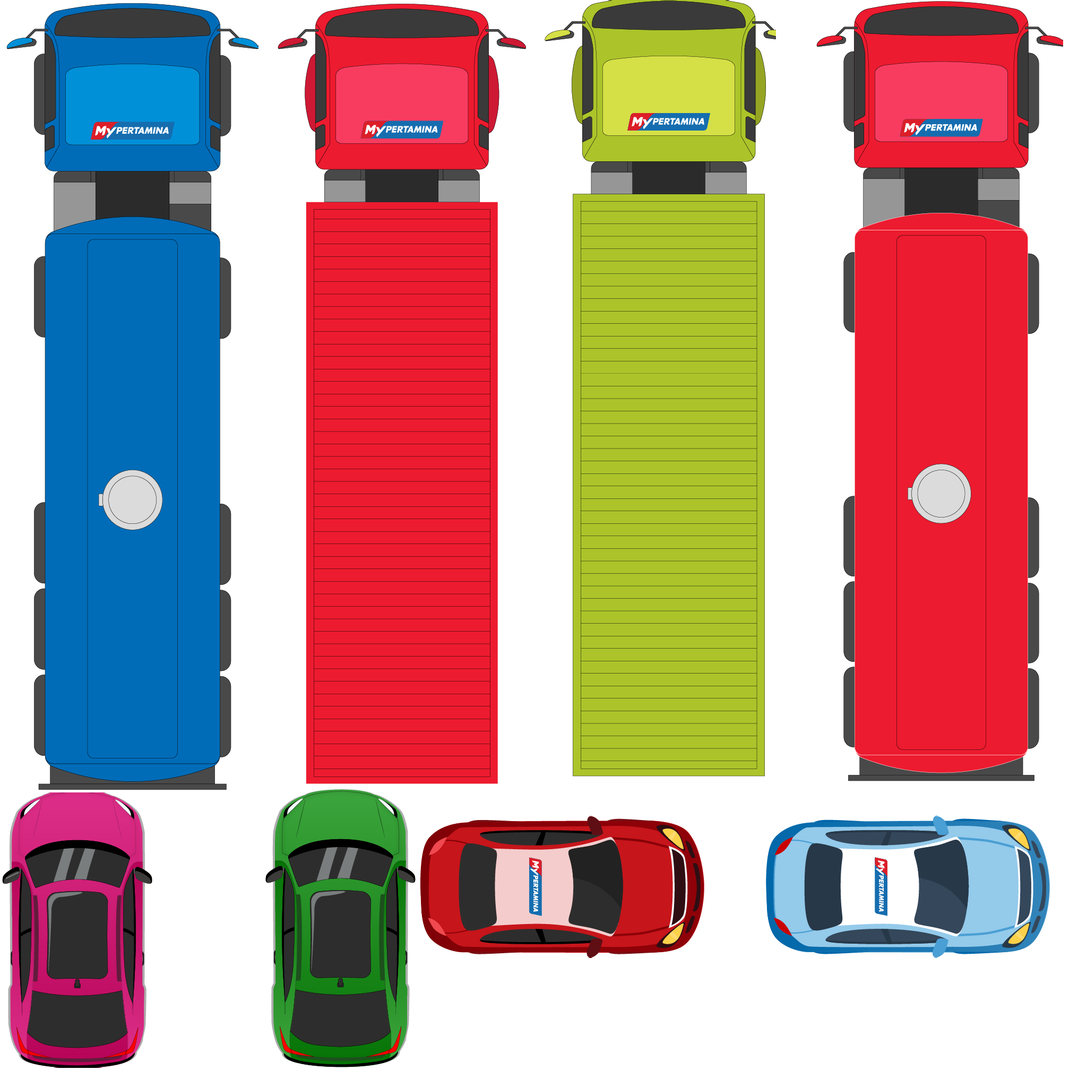
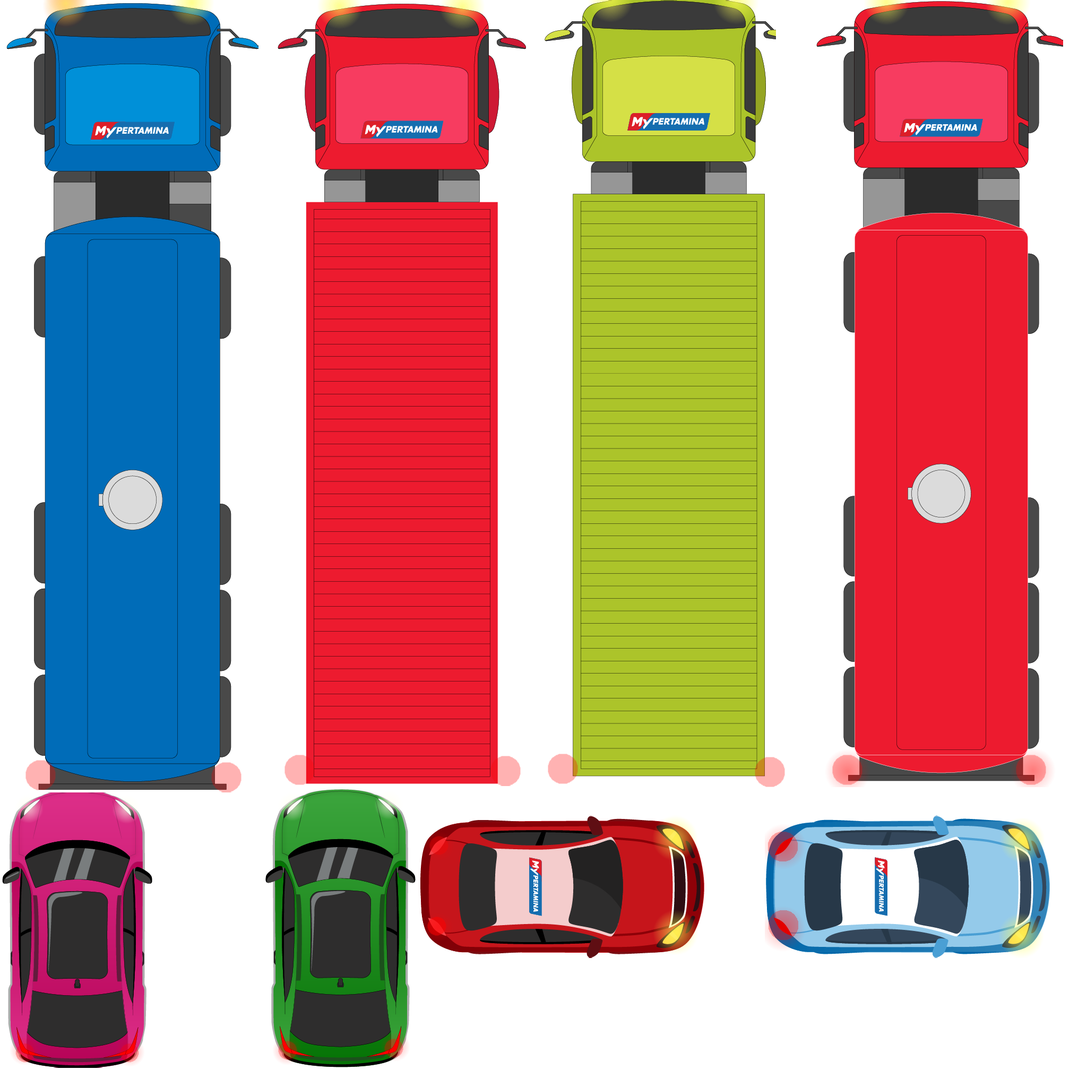
commit added effect, version stable 171025

diff --git a/scripts/c3runtime.js b/scripts/c3runtime.js
@@ -1239,6 +1239,21 @@ const C3=self.C3,GESTURE_HOLD_THRESHOLD=15,GESTURE_HOLD_TIMEOUT=500,GESTURE_TAP_
 {const t=self.C3;t.Plugins.Json=class extends t.SDKPluginBase{constructor(t){super(t)}Release(){super.Release()}}}{const t=self.C3;t.Plugins.Json.Type=class extends t.SDKTypeBase{constructor(t){super(t)}Release(){super.Release()}OnCreate(){}}}{const t=self.C3,e=self.C3X,a=self.IInstance;t.Plugins.Json.Instance=class extends t.SDKInstanceBase{constructor(t,e){super(t),this._valueCache=[null,null],this._locationCache=[null,null],this._data={},this._path=[],this._currentKey="",this._currentValue=0}Release(){super.Release()}_InvalidateValueCache(){this._valueCache[0]=null,this._valueCache[1]=null}_HasValueCache(e,a){const s=this._valueCache[0];if(null===e||null===s)return!1;if(s===e||t.arraysEqual(s,e))return!0;if(a&&s.length>0){for(let t=0,a=Math.min(e.length,s.length);t<a;++t)if(e[t]!==s[t])return!1;return!0}return!1}_GetValueCache(){return this._valueCache[1]}_UpdateValueCache(t,e){this._valueCache[0]=t,this._valueCache[1]=e}_InvalidateLocationCache(){this._locationCache[0]=null,this._locationCache[1]=null}_HasLocationCache(t){return this._locationCache[0]===t}_GetLocationCache(){return this._locationCache[1]}_UpdateLocationCache(t,e){this._locationCache[0]=t,this._locationCache[1]=e}_SetData(t){this._data=t,this._InvalidateValueCache(),this._SetPath("")}_GetData(){return this._data}_SetPath(t){this._path=this._ParsePathUnsafe(t),this._InvalidateLocationCache()}_ParsePath(e){return t.cloneArray(this._ParsePathUnsafe(e))}_ParsePathUnsafe(e){const a=[];let s,r=!1;if(this._HasLocationCache(e))return this._GetLocationCache();"."===e[0]?(s=t.cloneArray(this._path),e=e.slice(1)):s=[];for(const n of e)r?(a.push(n),r=!1):"\\"===n?r=!0:"."===n?(s.push(a.join("")),t.clearArray(a)):a.push(n);return 0!==a.length&&s.push(a.join("")),this._UpdateLocationCache(e,s),s}_GetValueAtFullPath(t,e){if(this._HasValueCache(t,!1))return this._GetValueCache();let a=this._data;for(const s of t)if(Array.isArray(a)){const t=parseInt(s,10);if(t<0||t>=a.length||!isFinite(t)){a=null;break}a=a[t]}else{if("object"!=typeof a||null===a){a=null;break}if(a.hasOwnProperty(s))a=a[s];else{if(!e){a=null;break}{const t={};a[s]=t,a=t}}}return this._UpdateValueCache(t,a),a}_GetValue(t){const e=this._ParsePath(t);if(!e.length)return this._data;const a=e.pop(),s=this._GetValueAtFullPath(e,!1);if(Array.isArray(s)){const t=parseInt(a,10);return t>=0&&t<s.length?s[t]:null}return"object"==typeof s&&null!==s&&s.hasOwnProperty(a)?s[a]:null}_JSONTypeOf(t){return null===t?"null":Array.isArray(t)?"array":typeof t}_GetTypeOf(t){const e=this._GetValue(t);return this._JSONTypeOf(e)}_ToSafeValue(t){const e=typeof t;return"number"===e||"string"===e?t:"boolean"===e&&t?1:0}_GetSafeValue(t){return this._ToSafeValue(this._GetValue(t))}_HasKey(t){const e=this._ParsePath(t);if(!e.length)return!1;const a=e.pop(),s=this._GetValueAtFullPath(e,!1);if(Array.isArray(s)){const t=parseInt(a,10);return t>=0&&t<s.length}return"object"==typeof s&&null!==s&&s.hasOwnProperty(a)}_SetValue(t,e){const a=this._ParsePath(t);if(!a.length)return!1;this._HasValueCache(a,!0)&&this._InvalidateValueCache();const s=a.pop(),r=this._GetValueAtFullPath(a,!0);if(Array.isArray(r)){const t=parseInt(s,10);return!(!isFinite(t)||t<0||t>=r.length)&&(r[t]=e,!0)}return"object"==typeof r&&null!==r&&(r[s]=e,!0)}_DeleteKey(t){const e=this._ParsePath(t);if(!e.length)return!1;this._HasValueCache(e,!0)&&this._InvalidateValueCache();const a=e.pop(),s=this._GetValueAtFullPath(e,!1);return!Array.isArray(s)&&("object"==typeof s&&null!==s&&(delete s[a],!0))}SaveToJson(){return{"path":this._path,"data":this._data}}LoadFromJson(t){this._InvalidateValueCache(),this._InvalidateLocationCache(),this._path=t["path"],this._data=t["data"]}_SanitizeValue(t){return"number"===typeof t?isFinite(t)?t:0:"object"==typeof t?JSON.stringify(t):t+""}GetDebuggerProperties(){const t="plugins.json.debugger";let e;try{e=this._SanitizeValue(this._data)}catch(t){e='"invalid"'}return[{title:t+".title",properties:[{name:t+".data",value:e,onedit:t=>{try{const e=JSON.parse(t);this._SetData(e)}catch(t){}}},{name:t+".path",value:this._path.map(t=>t.replace(/\./g,"\\.")).join(".")}]}]}GetScriptInterfaceClass(){return self.IJSONInstance}};const s=new WeakMap;self.IJSONInstance=class extends a{constructor(){super(),s.set(this,a._GetInitInst().GetSdkInstance())}getJsonDataCopy(){const t=s.get(this)._GetData();return JSON.parse(JSON.stringify(t))}setJsonDataCopy(t){try{const e=JSON.parse(JSON.stringify(t));s.get(this)._SetData(e)}catch(t){throw console.error("[JSON plugin] setJsonData: object is not valid JSON: ",t),t}}setJsonString(t){e.RequireString(t);try{const e=JSON.parse(t);s.get(this)._SetData(e)}catch(t){throw console.error("[JSON plugin] setJsonString: string is not valid JSON: ",t),t}}toCompactString(){return JSON.stringify(s.get(this)._GetData())}toBeautifiedString(){return JSON.stringify(s.get(this)._GetData(),null,4)}}}{const t=self.C3,e=["null","boolean","number","string","object","array"];t.Plugins.Json.Cnds={HasKey(t){return this._HasKey(t)},CompareType(t,a){return this._GetTypeOf(t)===e[a]},CompareValue(e,a,s){return t.compare(this._GetSafeValue(e),a,s)},IsBooleanSet(t){return!0===this._GetValue(t)},ForEach(e){const a=this._GetValue(e);if("object"!=typeof a||null===a)return!1;const s=this._runtime,r=s.GetEventSheetManager(),n=s.GetCurrentEvent(),i=n.GetSolModifiers(),l=s.GetEventStack(),u=l.GetCurrentStackFrame(),h=l.Push(n),o=this._path,c=this._currentKey,_=this._currentValue,p=this._ParsePathUnsafe(e);s.SetDebuggingEnabled(!1);for(const[e,s]of Object.entries(a)){this._path=t.cloneArray(p),this._path.push(e),this._currentKey=e,this._currentValue=s,r.PushCopySol(i);this.GetObjectClass().GetCurrentSol().PickOne(this.GetInstance()),n.Retrigger(u,h),r.PopSol(i)}return s.SetDebuggingEnabled(!0),this._path=o,this._InvalidateLocationCache(),this._currentKey=c,this._currentValue=_,l.Pop(),!1},OnParseError:()=>!0,OnParseSuccess:()=>!0}}{const t=self.C3;t.Plugins.Json.Acts={Parse(e){try{this._SetData(JSON.parse(e)),this.Trigger(t.Plugins.Json.Cnds.OnParseSuccess)}catch(e){console.warn("[JSON plugin] Failed to parse JSON data: ",e),this._SetData({}),this.Trigger(t.Plugins.Json.Cnds.OnParseError)}},SetPath(t){this._SetPath(t)},SetValue(t,e){this._SetValue(t,e)},SetArray(e,a){let s=this._GetValue(e);Array.isArray(s)?t.resizeArray(s,a,0):(s=[],t.extendArray(s,a,0),this._SetValue(e,s))},SetObject(t){this._SetValue(t,{})},SetJSON(e,a){let s=null;try{s=JSON.parse(a),this.Trigger(t.Plugins.Json.Cnds.OnParseSuccess)}catch(e){console.warn("[JSON plugin] Failed to parse JSON data: ",e),this.Trigger(t.Plugins.Json.Cnds.OnParseError)}this._SetValue(e,s)},SetNull(t){this._SetValue(t,null)},SetBoolean(t,e){this._SetValue(t,0!==e)},ToggleBoolean(t){const e=this._GetValue(t);"boolean"==typeof e&&this._SetValue(t,!e)},AddTo(t,e){const a=this._GetValue(t);"number"==typeof a&&this._SetValue(t,a+e)},SubtractFrom(t,e){const a=this._GetValue(t);"number"==typeof a&&this._SetValue(t,a-e)},DeleteKey(t){this._DeleteKey(t)},PushValue(t,e,a){const s=this._GetValue(e);Array.isArray(s)&&(0===t?s.push(a):s.unshift(a),this._InvalidateValueCache())},PopValue(t,e){const a=this._GetValue(e);Array.isArray(a)&&(0===t?a.pop():a.shift(),this._InvalidateValueCache())},InsertValue(t,e,a){const s=this._GetValue(e);Array.isArray(s)&&(s.splice(a,0,t),this._InvalidateValueCache())},RemoveValues(t,e,a){const s=this._GetValue(e);Array.isArray(s)&&t>0&&(s.splice(a,t),this._InvalidateValueCache())}}}self.C3.Plugins.Json.Exps={ToCompactString(){try{return JSON.stringify(this._data)}catch(t){return""}},ToBeautifiedString(){try{return JSON.stringify(this._data,null,4)}catch(t){return""}},Get(t){return this._GetSafeValue(t)},GetAsCompactString(t){const e=this._GetValue(t);return JSON.stringify(e)},GetAsBeautifiedString(t){const e=this._GetValue(t);return JSON.stringify(e,null,4)},Front(t){const e=this._GetValue(t);if(Array.isArray(e)){const t=e[0];return this._ToSafeValue(t)}return-1},Back(t){const e=this._GetValue(t);if(Array.isArray(e)){const t=e.at(-1);return this._ToSafeValue(t)}return-1},Type(t){return this._GetTypeOf(t)},ArraySize(t){const e=this._GetValue(t);return Array.isArray(e)?e.length:-1},Path(){return this._path.map(t=>t.replace(/\./g,"\\.")).join(".")},CurrentKey(){return this._currentKey},CurrentValue(){return this._ToSafeValue(this._currentValue)},CurrentType(){return this._JSONTypeOf(this._currentValue)}};
 }
 
+// scripts/plugins/Particles/c3runtime/runtime.js
+{
+{const e=self.C3;e.Plugins.Particles=class extends e.SDKPluginBase{constructor(e){super(e)}Release(){super.Release()}}}{const t=self.C3;t.Plugins.Particles.Type=class extends t.SDKTypeBase{constructor(e){super(e)}Release(){super.Release()}OnCreate(){this.GetImageInfo().LoadAsset(this._runtime)}LoadTextures(e){return this.GetImageInfo().LoadStaticTexture(e,{sampling:this._runtime.GetSampling()})}ReleaseTextures(){this.GetImageInfo().ReleaseTexture()}}}{const i=self.C3,n=self.C3X,a=0,r=1,s=2,o=3,c=4,l=5,S=6,d=7,p=8,G=9,m=10,u=11,h=12,g=13,R=14,I=15,y=16,_=17,E=18,P=19,f=20,b=0,C=1,O=i.New(i.Rect);i.Plugins.Particles.Instance=class extends i.SDKWorldInstanceBase{constructor(e,t){super(e),this._isFirstTick=!0;const n=i.New(self.ParticleEngine);this._particleEngine=n,n.ononeshotfinish=()=>this._OnOneShotFinish(),this._spawnObjectClass=null,this._particleUpdateCallback=(e,t,i,n,a,r)=>this._OnParticleUpdate(e,t,i,n,a,r),this._particleDestroyCallback=e=>this._OnParticleDestroy(e),this._hasAnyDefaultParticle=!0;let b=!0;t&&(n.SetRate(t[a]),n.SetSprayCone(i.toRadians(t[r])),n.SetSprayType(t[s]?"one-shot":"continuous-spray"),this._SetParticleObjectClass(this._runtime.GetObjectClassBySID(t[o])),b=t[c],n.SetInitSpeed(t[l]),n.SetInitSize(t[S]),n.SetInitOpacity(t[d]/100),n.SetGrowRate(t[p]),n.SetInitXRandom(t[G]),n.SetInitYRandom(t[m]),n.SetInitSpeedRandom(t[u]),n.SetInitSizeRandom(t[h]),n.SetGrowRandom(t[g]),n.SetAcceleration(t[R]),n.SetGravity(t[I]),n.SetLifeAngleRandom(t[y]),n.SetLifeSpeedRandom(t[_]),n.SetLifeOpacityRandom(t[E]),n.SetDestroyModeIndex(t[P]),n.SetTimeout(t[f])),this._UpdateEngineParameters(),this._spawnObjectClass&&(this._hasAnyDefaultParticle=!1),"one-shot"===n.GetSprayType()?n.CreateOneShotSpray():n.SetSpraying(!0);const C=this.GetWorldInfo();C.SetVisible(b),C.SetBboxChangeEventEnabled(!0),this._inst.Dispatcher().addEventListener("bboxchange",()=>{C.OverwriteBoundingBox(this._particleEngine.GetBoundingBox())}),this.GetRuntime().GetRenderer().IsWebGPU()&&C.SetUsePointsShaderProgram(),this._afterLoad=e=>this._OnAfterLoad(e),this.GetRuntime().Dispatcher().addEventListener("afterload",this._afterLoad),this._StartTicking()}Release(){this.GetRuntime().Dispatcher().removeEventListener("afterload",this._afterLoad),this._afterLoad=null,this._particleEngine.Release(),this._particleEngine=null,this._particleUpdateCallback=null,this._particleDestroyCallback=null,super.Release()}GetParticleEngine(){return this._particleEngine}_SetRate(e){this._particleEngine.SetRate(e),"one-shot"===this._particleEngine.GetSprayType()&&this._isFirstTick&&this._particleEngine.SetParticleCount(e)}_SetParticleObjectClass(e){e===this.GetObjectClass()&&(e=null),e!==this._spawnObjectClass&&(this._spawnObjectClass=e,this._particleEngine.onparticlecreate=e?e=>this._OnParticleCreate(e):null,this._spawnObjectClass||(this._hasAnyDefaultParticle=!0))}_UpdateEngineParameters(){const e=this._particleEngine,t=this.GetWorldInfo();e.SetMasterOpacity(t.GetOpacity()),e.SetPixelRounding(this._runtime.IsPixelRoundingEnabled()),e.SetSpawnX(t.GetX()),e.SetSpawnY(t.GetY()),e.SetSpawnAngle(t.GetAngle()),e.SetInitSizeScale(Math.abs(t.GetSceneGraphScale()))}_OnOneShotFinish(){this._runtime.DestroyInstance(this._inst)}Draw(e){if(!this._hasAnyDefaultParticle)return;const t=this._objectClass.GetImageInfo(),i=t.GetTexture();if(!i)return;const n=this.GetWorldInfo(),a=n.GetLayer(),r=O;this._runtime.GetCanvasManager().IsPastingToDrawingCanvas()?r.set(-1/0,-1/0,1/0,1/0):a.Has3DCamera()?a.CalculateViewport3D(n.GetTotalZElevation(),r):a.GetViewportForZ(n.GetTotalZElevation(),r),e.SetTexture(i);const s=a.Get2DScaleFactorToZ(n.GetTotalZElevation());this._particleEngine.SetParticleScale(a.GetRenderScale()*s),this._particleEngine.Draw(e,t.GetTexQuad(),r,a.Has3DCamera())}SaveToJson(){const e=this._particleEngine;return{"r":e.GetRate(),"sc":e.GetSprayCone(),"st":e.GetSprayType(),"isp":e.GetInitSpeed(),"isz":e.GetInitSize(),"io":e.GetInitOpacity(),"gr":e.GetGrowRate(),"xr":e.GetInitXRandom(),"yr":e.GetInitYRandom(),"spr":e.GetInitSpeedRandom(),"szr":e.GetInitSizeRandom(),"grnd":e.GetGrowRandom(),"acc":e.GetAcceleration(),"g":e.GetGravity(),"lar":e.GetLifeAngleRandom(),"lsr":e.GetLifeSpeedRandom(),"lor":e.GetLifeOpacityRandom(),"dm":e.GetDestroyModeIndex(),"to":e.GetTimeout(),"s":e.IsSpraying(),"pcc":e._GetCreateCounter(),"ft":this._isFirstTick,"soc":this._spawnObjectClass?this._spawnObjectClass.GetSID():null,"p":e.GetParticles().map(e=>e.toJSON())}}LoadFromJson(e,t){const i=this._particleEngine;if(i.SetRate(e["r"]),i.SetSprayCone(e["sc"]),i.SetSprayType(e["st"]),i.SetInitSpeed(e["isp"]),i.SetInitSize(e["isz"]),i.SetInitOpacity(e["io"]),i.SetGrowRate(e["gr"]),i.SetInitXRandom(e["xr"]),i.SetInitYRandom(e["yr"]),i.SetInitSpeedRandom(e["spr"]),i.SetInitSizeRandom(e["szr"]),i.SetGrowRandom(e["grnd"]),i.SetAcceleration(e["acc"]),i.SetGravity(e["g"]),i.SetLifeAngleRandom(e["lar"]),i.SetLifeSpeedRandom(e["lsr"]),i.SetLifeOpacityRandom(e["lor"]),i.SetDestroyModeIndex(e["dm"]),i.SetTimeout(e["to"]),i.SetSpraying(e["s"]),i._SetCreateCounter(e["pcc"]),this._isFirstTick=e["ft"],e.hasOwnProperty("soc")){const t=this.GetRuntime().GetObjectClassBySID(e["soc"]);t&&this._SetParticleObjectClass(t)}const n=e["p"];i.SetParticleCount(n.length,!1);const a=i.GetParticles();for(let e=0,t=a.length;e<t;++e)a[e].setFromJSON(n[e]);"state"===t&&this._spawnObjectClass&&(i.UpdateAllParticlesUserData(),i.ApplyParticleDataToUserData(this))}_OnAfterLoad(){const e=this._particleEngine;e.UpdateAllParticlesUserData(),e.ApplyParticleDataToUserData(this);const t=e.GetParticles();for(let e=0,i=t.length;e<i;++e){const i=t[e],n=i.GetUserData();if(!n)continue;const a=n.GetWorldInfo();if(!a)continue;const r=a.GetInstance();if(!r)continue;const s=i.GetUserDataUID(),o=r.GetUID();if(("number"!=typeof s||"number"!=typeof o||s!==o)&&"number"==typeof s){const e=this.GetRuntime(),t=e.GetInstanceByUID(s);t&&e.DestroyInstance(t)}}}Tick(){const e=this._runtime.GetDt(this._inst);this._UpdateEngineParameters(),this._isFirstTick&&"one-shot"===this._particleEngine.GetSprayType()&&this._particleEngine.ReInitAllParticles(),this._particleEngine.Tick(e),this._particleEngine.IsSpraying()&&this._runtime.UpdateRender(),this.GetWorldInfo().SetBboxChanged(),this._isFirstTick=!1}_FastForward(e){const t=1/60;for(this._isFirstTick&&"one-shot"===this._particleEngine.GetSprayType()&&this._particleEngine.ReInitAllParticles();e>0;)this._particleEngine.Tick(t),e-=t;this._particleEngine.IsSpraying()&&this._runtime.UpdateRender(),this.GetWorldInfo().SetBboxChanged(),this._isFirstTick=!1}_OnParticleCreate(e,t){let i;"number"==typeof t&&(i=this._runtime.GetInstanceByUID(t)),i&&i.GetObjectClass()!==this._spawnObjectClass&&(i=null),i||(i=this._runtime.CreateInstance(this._spawnObjectClass,this.GetWorldInfo().GetLayer(),e.GetX(),e.GetY()));const n=i.GetWorldInfo();return n.SetSize(e.GetSize(),e.GetSize()),n.SetAngle(e.GetAngle()),n.SetOpacity(e.GetOpacity()),n.SetUnpremultipliedColor(this.GetWorldInfo().GetUnpremultipliedColor()),n.SetBboxChanged(),n.ZOrderMoveAdjacentToInstance(this.GetInstance(),!0),i._TriggerOnCreated(),e.SetUpdateCallback(this._particleUpdateCallback),e.SetDestroyCallback(this._particleDestroyCallback),i}_OnParticleUpdate(e,t,i,n,a,r){if(e.IsDestroyed())return;const s=e.GetWorldInfo();s.OffsetXY(t,i),s.SetSize(s.GetWidth()+n,s.GetHeight()+n),s.SetAngle(s.GetAngle()+a),s.SetOpacity(s.GetOpacity()+r),s.SetBboxChanged()}_OnParticleDestroy(e){e.IsDestroyed()||this._runtime.DestroyInstance(e)}GetPropertyValueByIndex(e){const t=this._particleEngine;switch(e){case a:return t.GetRate();case r:return i.toDegrees(t.GetSprayCone());case s:return"one-shot"===t.GetSprayType()?C:b;case l:return t.GetInitSpeed();case S:return t.GetInitSize();case d:return 100*t.GetInitOpacity();case p:return t.GetGrowRate();case G:return t.GetInitXRandom();case m:return t.GetInitYRandom();case u:return t.GetInitSpeedRandom();case h:return t.GetInitSizeRandom();case g:return t.GetGrowRandom();case R:return t.GetAcceleration();case I:return t.GetGravity();case y:return t.GetLifeAngleRandom();case _:return t.GetLifeSpeedRandom();case E:return t.GetLifeOpacityRandom();case P:return t.GetDestroyModeIndex();case f:return t.GetTimeout()}}SetPropertyValueByIndex(e,t){const n=this._particleEngine;switch(e){case a:n.SetRate(t);break;case r:n.SetSprayCone(i.toRadians(t));break;case s:n.SetSprayType(t?"one-shot":"continuous-spray");break;case l:n.SetInitSpeed(t);break;case S:n.SetInitSize(t);break;case d:n.SetInitOpacity(t/100);break;case p:n.SetGrowRate(t);break;case G:n.SetInitXRandom(t);break;case m:n.SetInitYRandom(t);break;case u:n.SetInitSpeedRandom(t);break;case h:n.SetInitSizeRandom(t);break;case g:n.SetGrowRandom(t);break;case R:n.SetAcceleration(t);break;case I:n.SetGravity(t);break;case y:n.SetLifeAngleRandom(t);break;case _:n.SetLifeSpeedRandom(t);break;case E:n.SetLifeOpacityRandom(t);break;case P:n.SetDestroyModeIndex(t);break;case f:n.SetTimeout(t)}}GetDebuggerProperties(){const e="plugins.particles",t=e+".properties",n=e+".debugger",a=this._particleEngine;return[{title:e+".name",properties:[{name:n+".particle-count",value:a.GetParticleCount()},{name:t+".type.name",value:[t+".type.items."+a.GetSprayType()]},{name:n+".is-spraying",value:a.IsSpraying(),onedit:e=>a.SetSpraying(e)},{name:t+".rate.name",value:a.GetRate(),onedit:e=>a.SetRate(e)},{name:t+".spray-cone.name",value:i.toDegrees(a.GetSprayCone()),onedit:e=>a.SetSprayCone(i.toRadians(e))},{name:t+".speed.name",value:a.GetInitSpeed(),onedit:e=>a.SetInitSpeed(e)},{name:t+".size.name",value:a.GetInitSize(),onedit:e=>a.SetInitSize(e)},{name:t+".opacity.name",value:a.GetInitOpacity(),onedit:e=>a.SetInitOpacity(e)},{name:t+".grow-rate.name",value:a.GetGrowRate(),onedit:e=>a.SetGrowRate(e)},{name:t+".x-randomiser.name",value:a.GetInitXRandom(),onedit:e=>a.SetInitXRandom(e)},{name:t+".y-randomiser.name",value:a.GetInitYRandom(),onedit:e=>a.SetInitYRandom(e)},{name:t+".initial-speed-randomiser.name",value:a.GetInitSpeedRandom(),onedit:e=>a.SetInitSpeedRandom(e)},{name:t+".size-randomiser.name",value:a.GetInitSizeRandom(),onedit:e=>a.SetInitSizeRandom(e)},{name:t+".grow-rate-randomiser.name",value:a.GetGrowRandom(),onedit:e=>a.SetGrowRandom(e)},{name:t+".acceleration.name",value:a.GetAcceleration(),onedit:e=>a.SetAcceleration(e)},{name:t+".gravity.name",value:a.GetGravity(),onedit:e=>a.SetGravity(e)},{name:t+".angle-randomiser.name",value:a.GetLifeAngleRandom(),onedit:e=>a.SetLifeAngleRandom(e)},{name:t+".life-speed-randomiser.name",value:a.GetLifeSpeedRandom(),onedit:e=>a.SetLifeSpeedRandom(e)},{name:t+".opacity-randomiser.name",value:a.GetLifeOpacityRandom(),onedit:e=>a.SetLifeOpacityRandom(e)},{name:t+".timeout.name",value:a.GetTimeout(),onedit:e=>a.SetTimeout(e)}]}]}GetScriptInterfaceClass(){return self.IParticlesInstance}};const w=new WeakMap;function GetParticleEngine(e){return w.get(e).GetParticleEngine()}self.IParticlesInstance=class extends self.IWorldInstance{constructor(){super(),w.set(this,self.IInstance._GetInitInst().GetSdkInstance())}set isSpraying(e){GetParticleEngine(this).SetSpraying(!!e)}get isSpraying(){return GetParticleEngine(this).IsSpraying()}set rate(e){n.RequireFiniteNumber(e),w.get(this)._SetRate(e)}get rate(){return GetParticleEngine(this).GetRate()}set sprayCone(e){n.RequireFiniteNumber(e),GetParticleEngine(this).SetSprayCone(e)}get sprayCone(){return GetParticleEngine(this).GetSprayCone()}set initSpeed(e){n.RequireFiniteNumber(e),GetParticleEngine(this).SetInitSpeed(e)}get initSpeed(){return GetParticleEngine(this).GetInitSpeed()}set initSize(e){n.RequireFiniteNumber(e),GetParticleEngine(this).SetInitSize(e)}get initSize(){return GetParticleEngine(this).GetInitSize()}set initOpacity(e){n.RequireFiniteNumber(e),GetParticleEngine(this).SetInitOpacity(e)}get initOpacity(){return GetParticleEngine(this).GetInitOpacity()}set initXRandom(e){n.RequireFiniteNumber(e),GetParticleEngine(this).SetInitXRandom(e)}get initXRandom(){return GetParticleEngine(this).GetInitXRandom()}set initYRandom(e){n.RequireFiniteNumber(e),GetParticleEngine(this).SetInitYRandom(e)}get initYRandom(){return GetParticleEngine(this).GetInitYRandom()}set initSpeedRandom(e){n.RequireFiniteNumber(e),GetParticleEngine(this).SetInitSpeedRandom(e)}get initSpeedRandom(){return GetParticleEngine(this).GetInitSpeedRandom()}set initSizeRandom(e){n.RequireFiniteNumber(e),GetParticleEngine(this).SetInitSizeRandom(e)}get initSizeRandom(){return GetParticleEngine(this).GetInitSizeRandom()}set initGrowRate(e){n.RequireFiniteNumber(e),GetParticleEngine(this).SetGrowRate(e)}get initGrowRate(){return GetParticleEngine(this).GetGrowRate()}set initGrowRandom(e){n.RequireFiniteNumber(e),GetParticleEngine(this).SetGrowRandom(e)}get initGrowRandom(){return GetParticleEngine(this).GetGrowRandom()}set acceleration(e){n.RequireFiniteNumber(e),GetParticleEngine(this).SetAcceleration(e)}get acceleration(){return GetParticleEngine(this).GetAcceleration()}set gravity(e){n.RequireFiniteNumber(e),GetParticleEngine(this).SetGravity(e)}get gravity(){return GetParticleEngine(this).GetGravity()}set lifeAngleRandom(e){n.RequireFiniteNumber(e),GetParticleEngine(this).SetLifeAngleRandom(e)}get lifeAngleRandom(){return GetParticleEngine(this).GetLifeAngleRandom()}set lifeSpeedRandom(e){n.RequireFiniteNumber(e),GetParticleEngine(this).SetLifeSpeedRandom(e)}get lifeSpeedRandom(){return GetParticleEngine(this).GetLifeSpeedRandom()}set lifeOpacityRandom(e){n.RequireFiniteNumber(e),GetParticleEngine(this).SetLifeOpacityRandom(e)}get lifeOpacityRandom(){return GetParticleEngine(this).GetLifeOpacityRandom()}set timeout(e){n.RequireFiniteNumber(e),GetParticleEngine(this).SetTimeout(e)}get timeout(){return GetParticleEngine(this).GetTimeout()}fastForward(e){n.RequireFiniteNumber(e),w.get(this)._FastForward(e)}setParticleObjectClass(e){const t=w.get(this);e?t._SetParticleObjectClass(t.GetRuntime()._UnwrapIObjectClass(e)):t._SetParticleObjectClass(null)}}}self.C3.Plugins.Particles.Cnds={IsSpraying(){return this._particleEngine.IsSpraying()}};{const T=self.C3;T.Plugins.Particles.Acts={SetSpraying(e){this._particleEngine.SetSpraying(0!==e)},SetRate(e){this._SetRate(e)},SetParticleObject(e){this._SetParticleObjectClass(e)},UnsetParticleObject(){this._SetParticleObjectClass(null)},SetSprayCone(e){this._particleEngine.SetSprayCone(T.toRadians(e))},SetInitSpeed(e){this._particleEngine.SetInitSpeed(e)},SetInitSize(e){this._particleEngine.SetInitSize(e)},SetInitOpacity(e){this._particleEngine.SetInitOpacity(e/100)},SetGrowRate(e){this._particleEngine.SetGrowRate(e)},SetXRandomiser(e){this._particleEngine.SetInitXRandom(e)},SetYRandomiser(e){this._particleEngine.SetInitYRandom(e)},SetSpeedRandomiser(e){this._particleEngine.SetInitSpeedRandom(e)},SetSizeRandomiser(e){this._particleEngine.SetInitSizeRandom(e)},SetGrowRateRandomiser(e){this._particleEngine.SetGrowRandom(e)},SetParticleAcc(e){this._particleEngine.SetAcceleration(e)},SetGravity(e){this._particleEngine.SetGravity(e)},SetAngleRandomiser(e){this._particleEngine.SetLifeAngleRandom(e)},SetLifeSpeedRandomiser(e){this._particleEngine.SetLifeSpeedRandom(e)},SetOpacityRandomiser(e){this._particleEngine.SetLifeOpacityRandom(e)},SetTimeout(e){this._particleEngine.SetTimeout(e)},FastForward(e){this._FastForward(e)},SetEffect(e){this.GetWorldInfo().SetBlendMode(e),this._runtime.UpdateRender()}}}{const D=self.C3;D.Plugins.Particles.Exps={ParticleCount(){return this._particleEngine.GetParticleCount()},Rate(){return this._particleEngine.GetRate()},SprayCone(){return D.toDegrees(this._particleEngine.GetSprayCone())},InitSpeed(){return this._particleEngine.GetInitSpeed()},InitSize(){return this._particleEngine.GetInitSize()},InitOpacity(){return 100*this._particleEngine.GetInitOpacity()},InitGrowRate(){return this._particleEngine.GetGrowRate()},XRandom(){return this._particleEngine.GetInitXRandom()},YRandom(){return this._particleEngine.GetInitYRandom()},InitSizeRandom(){return this._particleEngine.GetInitSizeRandom()},InitSpeedRandom(){return this._particleEngine.GetInitSpeedRandom()},InitGrowRandom(){return this._particleEngine.GetGrowRandom()},ParticleAcceleration(){return this._particleEngine.GetAcceleration()},Gravity(){return this._particleEngine.GetGravity()},ParticleAngleRandom(){return this._particleEngine.GetLifeAngleRandom()},ParticleSpeedRandom(){return this._particleEngine.GetLifeSpeedRandom()},ParticleOpacityRandom(){return this._particleEngine.GetLifeOpacityRandom()},Timeout(){return this._particleEngine.GetTimeout()}}}
+}
+
+// scripts/plugins/Particles/particleEngine.js
+{
+const C3=self.C3,inactiveParticles=[],MAX_RECYCLE_PARTICLES=1e3,VALID_SPRAY_TYPES=new Set(["continuous-spray","one-shot"]),DESTROY_MODES=["fade-to-invisible","timeout-expired","particle-stopped"],tempRect=C3.New(C3.Rect);self.ParticleEngine=class{constructor(){this._rate=0,this._sprayCone=0,this._sprayType="continuous-spray",this._isSpraying=!1,this._masterOpacity=0,this._isPixelRounding=!1,this._spawnX=0,this._spawnY=0,this._spawnAngle=0,this._initSpeed=0,this._initSize=0,this._initSizeScale=1,this._initOpacity=0,this._growRate=0,this._xRandom=0,this._yRandom=0,this._initSpeedRandom=0,this._initSizeRandom=0,this._growRandom=0,this._acceleration=0,this._gravity=0,this._lifeAngleRandom=0,this._lifeSpeedRandom=0,this._lifeOpacityRandom=0,this._destroyMode=0,this._timeout=0,this._createCounter=0,this._particleScale=1,this.ononeshotfinish=null,this.onparticlecreate=null,this._particles=[],this._boundingBox=new C3.Rect,this._color=new C3.Color,this._devicePixelRatio=globalThis.devicePixelRatio||1}Release(){this.Cancel(),C3.clearArray(this._particles),this._particles=null,this.ononeshotfinish=null,this.onparticlecreate=null,this._boundingBox=null,this._color=null}Cancel(){const t=this._particles;for(let e=0,i=t.length;e<i;++e)t[e].Destroy();C3.appendArray(inactiveParticles,t),C3.clearArray(t),inactiveParticles.length>1e3&&C3.truncateArray(inactiveParticles,1e3),this._isSpraying=!1}CreateOneShotSpray(){for(let t=0,e=this._rate;t<e;++t)this._CreateParticle();this._particles.length&&(this._isSpraying=!0)}_CreateParticle(t=!0){let e=null;return inactiveParticles.length?(e=inactiveParticles.pop(),e.SetEngine(this)):e=C3.New(self.Particle,this),this._particles.push(e),t?e.Init(this.onparticlecreate):e.Init(),e}ReInitAllParticles(){const t=this._particles,e=this.onparticlecreate;for(let i=0,n=t.length;i<n;++i)t[i].Init(e)}UpdateAllParticlesUserData(){const t=this._particles,e=this.onparticlecreate;for(let i=0,n=t.length;i<n;++i)t[i].UpdateUserData(e)}ApplyParticleDataToUserData(t){const e=this._particles;for(let i=0,n=e.length;i<n;++i){const n=e[i],s=n.GetUserData();if(s){const e=s.GetWorldInfo();e.SetX(n.GetX()),e.SetY(n.GetY()),e.SetSize(n.GetSize(),n.GetSize()),e.SetOpacity(n.GetOpacity()),e.SetAngle(n.GetAngle()),e.SetUnpremultipliedColor(t.GetWorldInfo().GetUnpremultipliedColor()),e.SetBboxChanged()}}}SetParticleCount(t,e=!0){const i=this._particles;if(t<i.length){const e=i.length-t;for(let t=0;t<e;++t){const t=i.pop();t.Destroy(),inactiveParticles.push(t)}inactiveParticles.length>1e3&&C3.truncateArray(inactiveParticles,1e3)}else if(t>i.length){const n=t-i.length;for(let t=0;t<n;++t)this._CreateParticle(e)}}GetParticles(){return this._particles}GetParticleCount(){return this._particles.length}Tick(t){this._SpawnContinuous(t),this._TickParticles(t),this._MaybeFinishOneShot()}_SpawnContinuous(t){if("continuous-spray"===this._sprayType&&this._isSpraying){this._createCounter+=t*this._rate;const e=Math.floor(this._createCounter);this._createCounter-=e;for(let t=0;t<e;++t)this._CreateParticle()}}_SetCreateCounter(t){this._createCounter=t}_GetCreateCounter(){return this._createCounter}_TickParticles(t){const e=this._boundingBox;e.set(this._spawnX,this._spawnY,this._spawnX,this._spawnY);const i=this._particles;let n=0;for(let s=0,r=i.length;s<r;++s){const r=i[s];i[n]=r,r.Tick(t),r.IsActive()?(++n,e.expandToContain(r.GetBoundingBox())):(r.Destroy(),inactiveParticles.push(r))}C3.truncateArray(i,n),inactiveParticles.length>1e3&&C3.truncateArray(inactiveParticles,1e3)}_MaybeFinishOneShot(){"one-shot"===this._sprayType&&0===this._particles.length&&this._isSpraying&&(this.ononeshotfinish&&this.ononeshotfinish(),this._isSpraying=!1)}Draw(t,e,i,n){this._devicePixelRatio=globalThis.devicePixelRatio||1,tempRect.set(e.getTlx(),e.getTly(),e.getBrx(),e.getBry()),t.StartRenderingPoints(tempRect),this._color.copy(t.GetColor());const s=this._particles;for(let r=0,a=s.length;r<a;++r){const a=s[r];i.intersectsRect(a.GetBoundingBox())&&a.Draw(t,e,n)}t.FinishRenderingPoints()}GetColor(){return this._color}SetRate(t){this._rate=+t}GetRate(){return this._rate}SetSprayCone(t){this._sprayCone=+t}GetSprayCone(){return this._sprayCone}SetSprayType(t){if(!VALID_SPRAY_TYPES.has(t))throw new Error("invalid spray type");this._sprayType=t}GetSprayType(){return this._sprayType}SetSpraying(t){this._isSpraying=!!t}IsSpraying(){return this._isSpraying}SetMasterOpacity(t){this._masterOpacity=+t}GetMasterOpacity(){return this._masterOpacity}SetPixelRounding(t){this._isPixelRounding=!!t}IsPixelRounding(){return this._isPixelRounding}SetSpawnX(t){this._spawnX=+t}GetSpawnX(){return this._spawnX}SetSpawnY(t){this._spawnY=+t}GetSpawnY(){return this._spawnY}SetSpawnAngle(t){this._spawnAngle=+t}GetInitAngle(){return this._spawnAngle}SetInitSpeed(t){this._initSpeed=+t}GetInitSpeed(){return this._initSpeed}SetInitSize(t){this._initSize=+t}GetInitSize(){return this._initSize}SetInitSizeScale(t){this._initSizeScale=+t}GetInitSizeScale(){return this._initSizeScale}SetInitOpacity(t){this._initOpacity=+t}GetInitOpacity(){return this._initOpacity}SetGrowRate(t){this._growRate=+t}GetGrowRate(){return this._growRate}SetInitXRandom(t){this._xRandom=+t}GetInitXRandom(){return this._xRandom}SetInitYRandom(t){this._yRandom=+t}GetInitYRandom(){return this._yRandom}SetInitSpeedRandom(t){this._initSpeedRandom=+t}GetInitSpeedRandom(){return this._initSpeedRandom}SetInitSizeRandom(t){this._initSizeRandom=+t}GetInitSizeRandom(){return this._initSizeRandom}SetGrowRandom(t){this._growRandom=+t}GetGrowRandom(){return this._growRandom}SetAcceleration(t){this._acceleration=+t}GetAcceleration(){return this._acceleration}SetGravity(t){this._gravity=+t}GetGravity(){return this._gravity}SetLifeAngleRandom(t){this._lifeAngleRandom=+t}GetLifeAngleRandom(){return this._lifeAngleRandom}SetLifeSpeedRandom(t){this._lifeSpeedRandom=+t}GetLifeSpeedRandom(){return this._lifeSpeedRandom}SetLifeOpacityRandom(t){this._lifeOpacityRandom=+t}GetLifeOpacityRandom(){return this._lifeOpacityRandom}SetDestroyMode(t){let e=DESTROY_MODES.indexOf(t);if(-1===e)throw new Error("invalid destroy mode");this._destroyMode=e}SetDestroyModeIndex(t){this.SetDestroyMode(DESTROY_MODES[t])}GetDestroyMode(){return DESTROY_MODES[this._destroyMode]}GetDestroyModeIndex(){return this._destroyMode}SetTimeout(t){this._timeout=+t}GetTimeout(){return this._timeout}SetParticleScale(t){this._particleScale=+t}GetParticleScale(){return this._particleScale}GetBoundingBox(){return this._boundingBox}GetDevicePixelRatio(){return this._devicePixelRatio}};
+}
+
+// scripts/plugins/Particles/particle.js
+{
+const C3=self.C3,ParticleEngine=self.ParticleEngine;function randomOffset(t){return Math.random()*t-t/2}const tmpQuad=new C3.Quad,tmpColor=new C3.Color;let didChangeColor=!1;self.Particle=class{constructor(t){this._engine=t,this._isActive=!1,this._x=0,this._y=0,this._speed=0,this._angle=0,this._opacity=1,this._lastOpacity=0,this._grow=0,this._size=0,this._halfSize=0,this._gs=0,this._age=0,this._bbox=new C3.Rect,this._userData=null,this._userDataUid=NaN,this._updateCallback=null,this._destroyCallback=null}SetEngine(t){this._engine=t}Init(t){const e=this._engine;this._isActive=!0,this._x=e.GetSpawnX()+randomOffset(e.GetInitXRandom()),this._y=e.GetSpawnY()+randomOffset(e.GetInitYRandom()),this._speed=e.GetInitSpeed()+randomOffset(e.GetInitSpeedRandom()),this._angle=e.GetInitAngle()+randomOffset(e.GetSprayCone()),this._opacity=e.GetInitOpacity(),this._lastOpacity=this._opacity,this._size=(e.GetInitSize()+randomOffset(e.GetInitSizeRandom()))*e.GetInitSizeScale(),this._halfSize=this._size/2,this._grow=e.GetGrowRate()+randomOffset(e.GetGrowRandom()),this._gs=0,this._age=0,this._UpdateBoundingBox(),t?this._userData||(this._userData=t(this)):(this._userData=null,this._updateCallback=null,this._destroyCallback=null)}UpdateUserData(t){t?this._userData&&!this._userData.IsDestroyed()||(this._userData=t(this,this._userDataUid)):(this._userData=null,this._updateCallback=null,this._destroyCallback=null)}SetUpdateCallback(t){this._updateCallback=t}SetDestroyCallback(t){this._destroyCallback=t}Destroy(){const t=this._destroyCallback;t&&t(this._userData),this._userData=null,this._updateCallback=null,this._destroyCallback=null}toJSON(){let t;return this._userData&&this._userData.GetWorldInfo()&&(t=this._userData.GetWorldInfo().GetInstance().GetUID()),[this._x,this._y,this._speed,this._angle,this._opacity,this._grow,this._size,this._gs,this._age,t]}setFromJSON(t){this._x=t[0],this._y=t[1],this._speed=t[2],this._angle=t[3],this._opacity=t[4],this._lastOpacity=this._opacity,this._grow=t[5],this._size=t[6],this._gs=t[7],this._age=t[8],this._userDataUid=t[9],this._halfSize=this._size/2,this._UpdateBoundingBox()}Tick(t){const e=this._engine,i=this._speed*t,s=this._angle,a=Math.cos(s)*i,h=Math.sin(s)*i+this._gs*t;this._x+=a,this._y+=h;const n=this._grow*t;this._size+=n,this._halfSize=this._size/2,this._speed+=e.GetAcceleration()*t,this._gs+=e.GetGravity()*t,this._age+=t,this._UpdateBoundingBox();const _=e.GetLifeAngleRandom(),o=e.GetLifeSpeedRandom(),l=e.GetLifeOpacityRandom();let r=0;0!==_&&(r=randomOffset(_*t),this._angle+=r),0!==o&&(this._speed+=randomOffset(o*t)),0!==l&&(this._opacity=C3.clamp(this._opacity+randomOffset(l*t),0,1));const d=this._size>=1&&(2===e.GetDestroyModeIndex()?this._speed>0:this._age<e.GetTimeout()),c=this._updateCallback;if(c&&d){let t=e.GetMasterOpacity()*this._opacity;0===e.GetDestroyModeIndex()&&(t*=1-this._age/e.GetTimeout());const i=t-this._lastOpacity;this._lastOpacity=t,c(this._userData,a,h,n,r,i)}this._isActive=d}IsActive(){return this._isActive}GetBoundingBox(){return this._bbox}_UpdateBoundingBox(){const t=this._x,e=this._y,i=this._halfSize;this._bbox.set(t-i,e-i,t+i,e+i)}Draw(t,e,i){if(this._userData)return;const s=this._engine;let a=s.GetMasterOpacity()*this._opacity;if(0===s.GetDestroyModeIndex()&&(a*=1-this._age/s.GetTimeout()),a<=0)return;const h=this._size,n=h*s.GetParticleScale()*s.GetDevicePixelRatio();if(n<1)return;let _=this._x,o=this._y;s.IsPixelRounding()&&(_=_+.5|0,o=o+.5|0),t.IsWebGPU()?t.Point(_,o,h,a):i||n>t.GetMaxPointSize()||n<t.GetMinPointSize()?(tmpColor.copy(s.GetColor()),tmpColor.multiplyAlpha(a),t.SetColor(tmpColor),didChangeColor=!0,tmpQuad.setFromRect(this._bbox),t.Quad4(tmpQuad,e)):(didChangeColor&&(t.SetColor(s.GetColor()),didChangeColor=!1),t.Point(_,o,n,a))}GetUserData(){return this._userData}GetUserDataUID(){return this._userDataUid}GetX(){return this._x}GetY(){return this._y}GetSize(){return this._size}GetAngle(){return this._angle}GetOpacity(){return this._opacity}};
+}
+
 // scripts/behaviors/Fade/c3runtime/runtime.js
 {
 {const t=self.C3;t.Behaviors.Fade=class extends t.SDKBehaviorBase{constructor(t){super(t)}Release(){super.Release()}}}{const t=self.C3;t.Behaviors.Fade.Type=class extends t.SDKBehaviorTypeBase{constructor(t){super(t)}Release(){super.Release()}OnCreate(){}}}{const t=self.C3,e=self.C3X,i=self.IBehaviorInstance,s=0,a=1,h=2,r=3,n=4;t.Behaviors.Fade.Instance=class extends t.SDKBehaviorInstanceBase{constructor(e,i){super(e),this._fadeInTime=0,this._waitTime=0,this._fadeOutTime=0,this._destroy=!0,this._activeAtStart=!0,this._setMaxOpacity=!1,this._stage=0,this._stageTime=t.New(t.KahanSum),this._maxOpacity=this._inst.GetWorldInfo().GetOpacity()||1,i&&(this._fadeInTime=i[s],this._waitTime=i[a],this._fadeOutTime=i[h],this._destroy=!!i[r],this._activeAtStart=!!i[n],this._stage=this._activeAtStart?0:3),this._activeAtStart&&(0===this._fadeInTime?(this._stage=1,0===this._waitTime&&(this._stage=2)):(this._inst.GetWorldInfo().SetOpacity(0),this._runtime.UpdateRender())),this._StartTicking()}Release(){super.Release()}SaveToJson(){return{"fit":this._fadeInTime,"wt":this._waitTime,"fot":this._fadeOutTime,"d":this._destroy,"s":this._stage,"st":this._stageTime.Get(),"mo":this._maxOpacity}}LoadFromJson(t){this._fadeInTime=t["fit"],this._waitTime=t["wt"],this._fadeOutTime=t["fot"],this._destroy=t["d"],this._stage=t["s"],this._stageTime.Set(t["st"]),this._maxOpacity=t["mo"],3===this._stage?this._StopTicking():this._StartTicking()}Tick(){const e=this._runtime.GetDt(this._inst);this._stageTime.Add(e);const i=this._inst.GetWorldInfo();0===this._stage&&(i.SetOpacity(this._stageTime.Get()/this._fadeInTime*this._maxOpacity),this._runtime.UpdateRender(),i.GetOpacity()>=this._maxOpacity&&(i.SetOpacity(this._maxOpacity),this._stage=1,this._stageTime.Reset(),this.DispatchScriptEvent("fadeinend"),this.Trigger(t.Behaviors.Fade.Cnds.OnFadeInEnd))),1===this._stage&&this._stageTime.Get()>=this._waitTime&&(this._stage=2,this._stageTime.Reset(),this.DispatchScriptEvent("waitend"),this.Trigger(t.Behaviors.Fade.Cnds.OnWaitEnd)),2===this._stage&&(0!==this._fadeOutTime?(i.SetOpacity(this._maxOpacity-this._stageTime.Get()/this._fadeOutTime*this._maxOpacity),this._runtime.UpdateRender(),i.GetOpacity()<=0&&(this._stage=3,this._stageTime.Reset(),this.DispatchScriptEvent("fadeoutend"),this.Trigger(t.Behaviors.Fade.Cnds.OnFadeOutEnd),this._destroy&&this._runtime.DestroyInstance(this._inst))):(this._stage=3,this._stageTime.Reset())),3===this._stage&&this._StopTicking()}_StartFade(){this._activeAtStart||this._setMaxOpacity||(this._maxOpacity=this._inst.GetWorldInfo().GetOpacity()||1,this._setMaxOpacity=!0),3===this._stage&&this.Start()}_RestartFade(){this.Start()}Start(){this._stage=0,this._stageTime.Reset(),0===this._fadeInTime?(this._stage=1,0===this._waitTime&&(this._stage=2)):(this._inst.GetWorldInfo().SetOpacity(0),this._runtime.UpdateRender()),this._StartTicking()}_SetFadeInTime(t){this._fadeInTime=Math.max(t,0)}_GetFadeInTime(){return this._fadeInTime}_SetWaitTime(t){this._waitTime=Math.max(t,0)}_GetWaitTime(){return this._waitTime}_SetFadeOutTime(t){this._fadeOutTime=Math.max(t,0)}_GetFadeOutTime(){return this._fadeOutTime}GetPropertyValueByIndex(t){switch(t){case s:return this._GetFadeInTime();case a:return this._GetWaitTime();case h:return this._GetFadeOutTime();case r:return this._destroy}}SetPropertyValueByIndex(t,e){switch(t){case s:this._SetFadeInTime(e);break;case a:this._SetWaitTime(e);break;case h:this._SetFadeOutTime(e);break;case r:this._destroy=!!e}}GetDebuggerProperties(){const t="behaviors.fade";return[{title:"$"+this.GetBehaviorType().GetName(),properties:[{name:t+".properties.fade-in-time.name",value:this._GetFadeInTime(),onedit:t=>this._SetFadeInTime(t)},{name:t+".properties.wait-time.name",value:this._GetWaitTime(),onedit:t=>this._SetWaitTime(t)},{name:t+".properties.fade-out-time.name",value:this._GetFadeOutTime(),onedit:t=>this._SetFadeOutTime(t)},{name:t+".debugger.stage",value:[t+".debugger."+["fade-in","wait","fade-out","done"][this._stage]]}]}]}GetScriptInterfaceClass(){return self.IFadeBehaviorInstance}};const _=new WeakMap;self.IFadeBehaviorInstance=class extends i{constructor(){super(),_.set(this,i._GetInitInst().GetSdkInstance())}startFade(){_.get(this)._StartFade()}restartFade(){_.get(this)._RestartFade()}set fadeInTime(t){e.RequireFiniteNumber(t),_.get(this)._SetFadeInTime(t)}get fadeInTime(){return _.get(this)._GetFadeInTime()}set waitTime(t){e.RequireFiniteNumber(t),_.get(this)._SetWaitTime(t)}get waitTime(){return _.get(this)._GetWaitTime()}set fadeOutTime(t){e.RequireFiniteNumber(t),_.get(this)._SetFadeOutTime(t)}get fadeOutTime(){return _.get(this)._GetFadeOutTime()}}}self.C3.Behaviors.Fade.Cnds={OnFadeOutEnd:()=>!0,OnFadeInEnd:()=>!0,OnWaitEnd:()=>!0};self.C3.Behaviors.Fade.Acts={StartFade(){this._StartFade()},RestartFade(){this._RestartFade()},SetFadeInTime(t){this._SetFadeInTime(t)},SetWaitTime(t){this._SetWaitTime(t)},SetFadeOutTime(t){this._SetFadeOutTime(t)}};self.C3.Behaviors.Fade.Exps={FadeInTime(){return this._GetFadeInTime()},WaitTime(){return this._GetWaitTime()},FadeOutTime(){return this._GetFadeOutTime()}};
@@ -1447,6 +1462,9 @@ self.C3_ExpressionFuncs = [
 			return () => f0();
 		},
 		() => "Controller",
+		() => 0.1,
+		() => 50,
+		() => 100,
 		() => "Skids",
 		p => {
 			const f0 = p._GetNode(0).GetBoundMethod();
@@ -1455,11 +1473,9 @@ self.C3_ExpressionFuncs = [
 		() => -5,
 		() => -1,
 		() => 0.15,
-		() => 35,
+		() => 15,
 		() => 0.2,
-		() => -35,
 		() => "Main",
-		() => 0.1,
 		() => 0.6,
 		p => {
 			const v0 = p._GetNode(0).GetVar();
@@ -1494,7 +1510,6 @@ self.C3_ExpressionFuncs = [
 		() => "Score Speed",
 		() => 30,
 		() => 1.3,
-		() => 100,
 		() => 1.2,
 		() => 750,
 		() => 200,

diff --git a/scripts/objRefTable.js b/scripts/objRefTable.js
@@ -19,6 +19,7 @@ self.C3_GetObjectRefTable = function () {
 		C3.Plugins.Button,
 		C3.Plugins.SVGPicture,
 		C3.Plugins.Json,
+		C3.Plugins.Particles,
 		C3.Plugins.System.Cnds.OnLayoutStart,
 		C3.Behaviors.Tween.Acts.TweenOneProperty,
 		C3.Plugins.System.Acts.SetVar,
@@ -42,14 +43,14 @@ self.C3_GetObjectRefTable = function () {
 		C3.Plugins.LocalStorage.Cnds.OnItemExists,
 		C3.Plugins.LocalStorage.Exps.ItemValue,
 		C3.Plugins.System.Cnds.IsGroupActive,
-		C3.Plugins.Keyboard.Cnds.IsKeyDown,
 		C3.Plugins.Touch.Cnds.IsTouchingObject,
 		C3.Behaviors.EightDir.Acts.SimulateControl,
+		C3.Plugins.System.Acts.Wait,
+		C3.Plugins.Particles.Acts.SetRate,
 		C3.Plugins.System.Cnds.TriggerOnce,
 		C3.Plugins.Sprite.Cnds.IsVisible,
 		C3.Plugins.Audio.Acts.SetPlaybackRate,
 		C3.Plugins.System.Exps.random,
-		C3.Plugins.Keyboard.Cnds.OnAnyKeyReleased,
 		C3.Plugins.Touch.Cnds.OnTouchEnd,
 		C3.Plugins.Sprite.Cnds.OnCollision,
 		C3.Behaviors.Sin.Acts.SetMagnitude,
@@ -58,7 +59,6 @@ self.C3_GetObjectRefTable = function () {
 		C3.Plugins.Sprite.Acts.Spawn,
 		C3.Plugins.Sprite.Acts.SetVisible,
 		C3.Behaviors.Flash.Acts.Flash,
-		C3.Plugins.System.Acts.Wait,
 		C3.Plugins.Text.Acts.SetVisible,
 		C3.Plugins.System.Acts.Signal,
 		C3.Behaviors.Bullet.Acts.SetAngleOfMotion,
@@ -68,7 +68,6 @@ self.C3_GetObjectRefTable = function () {
 		C3.Plugins.System.Cnds.Compare,
 		C3.Behaviors.Sin.Acts.SetPeriod,
 		C3.Plugins.Sprite.Cnds.CompareY,
-		C3.Plugins.Keyboard.Cnds.OnKey,
 		C3.Plugins.Touch.Cnds.OnTapGestureObject,
 		C3.Plugins.LocalStorage.Acts.SetItem,
 		C3.Plugins.System.Acts.RestartLayout,
@@ -101,6 +100,7 @@ self.C3_JsPropNameTable = [
 	{Car_Player: 0},
 	{Bullet: 0},
 	{Explosion: 0},
+	{Player_Collider2: 0},
 	{Spawn: 0},
 	{Cars: 0},
 	{Limite: 0},
@@ -138,6 +138,12 @@ self.C3_JsPropNameTable = [
 	{RoadAdvert: 0},
 	{RoadADS: 0},
 	{jalanPantai: 0},
+	{Particles: 0},
+	{Particles2: 0},
+	{SmokeR: 0},
+	{SmokeL: 0},
+	{SmokeR2: 0},
+	{FastEffect: 0},
 	{Menu: 0},
 	{Bg: 0},
 	{Buttons: 0},
@@ -170,6 +176,7 @@ self.InstanceType = {
 	Player_Collider: class extends self.ISpriteInstance {},
 	Car_Player: class extends self.ISpriteInstance {},
 	Explosion: class extends self.ISpriteInstance {},
+	Player_Collider2: class extends self.ISpriteInstance {},
 	Spawn: class extends self.ISpriteInstance {},
 	Cars: class extends self.ISpriteInstance {},
 	Limite: class extends self.ISpriteInstance {},
@@ -206,6 +213,12 @@ self.InstanceType = {
 	RoadAdvert: class extends self.ISpriteInstance {},
 	RoadADS: class extends self.ISpriteInstance {},
 	jalanPantai: class extends self.ISpriteInstance {},
+	Particles: class extends self.IParticlesInstance {},
+	Particles2: class extends self.IParticlesInstance {},
+	SmokeR: class extends self.IParticlesInstance {},
+	SmokeL: class extends self.IParticlesInstance {},
+	SmokeR2: class extends self.IParticlesInstance {},
+	FastEffect: class extends self.IParticlesInstance {},
 	Menu: class extends self.ISpriteInstance {},
 	Bg: class extends self.ITiledBackgroundInstance {},
 	Buttons: class extends self.ISpriteInstance {}
